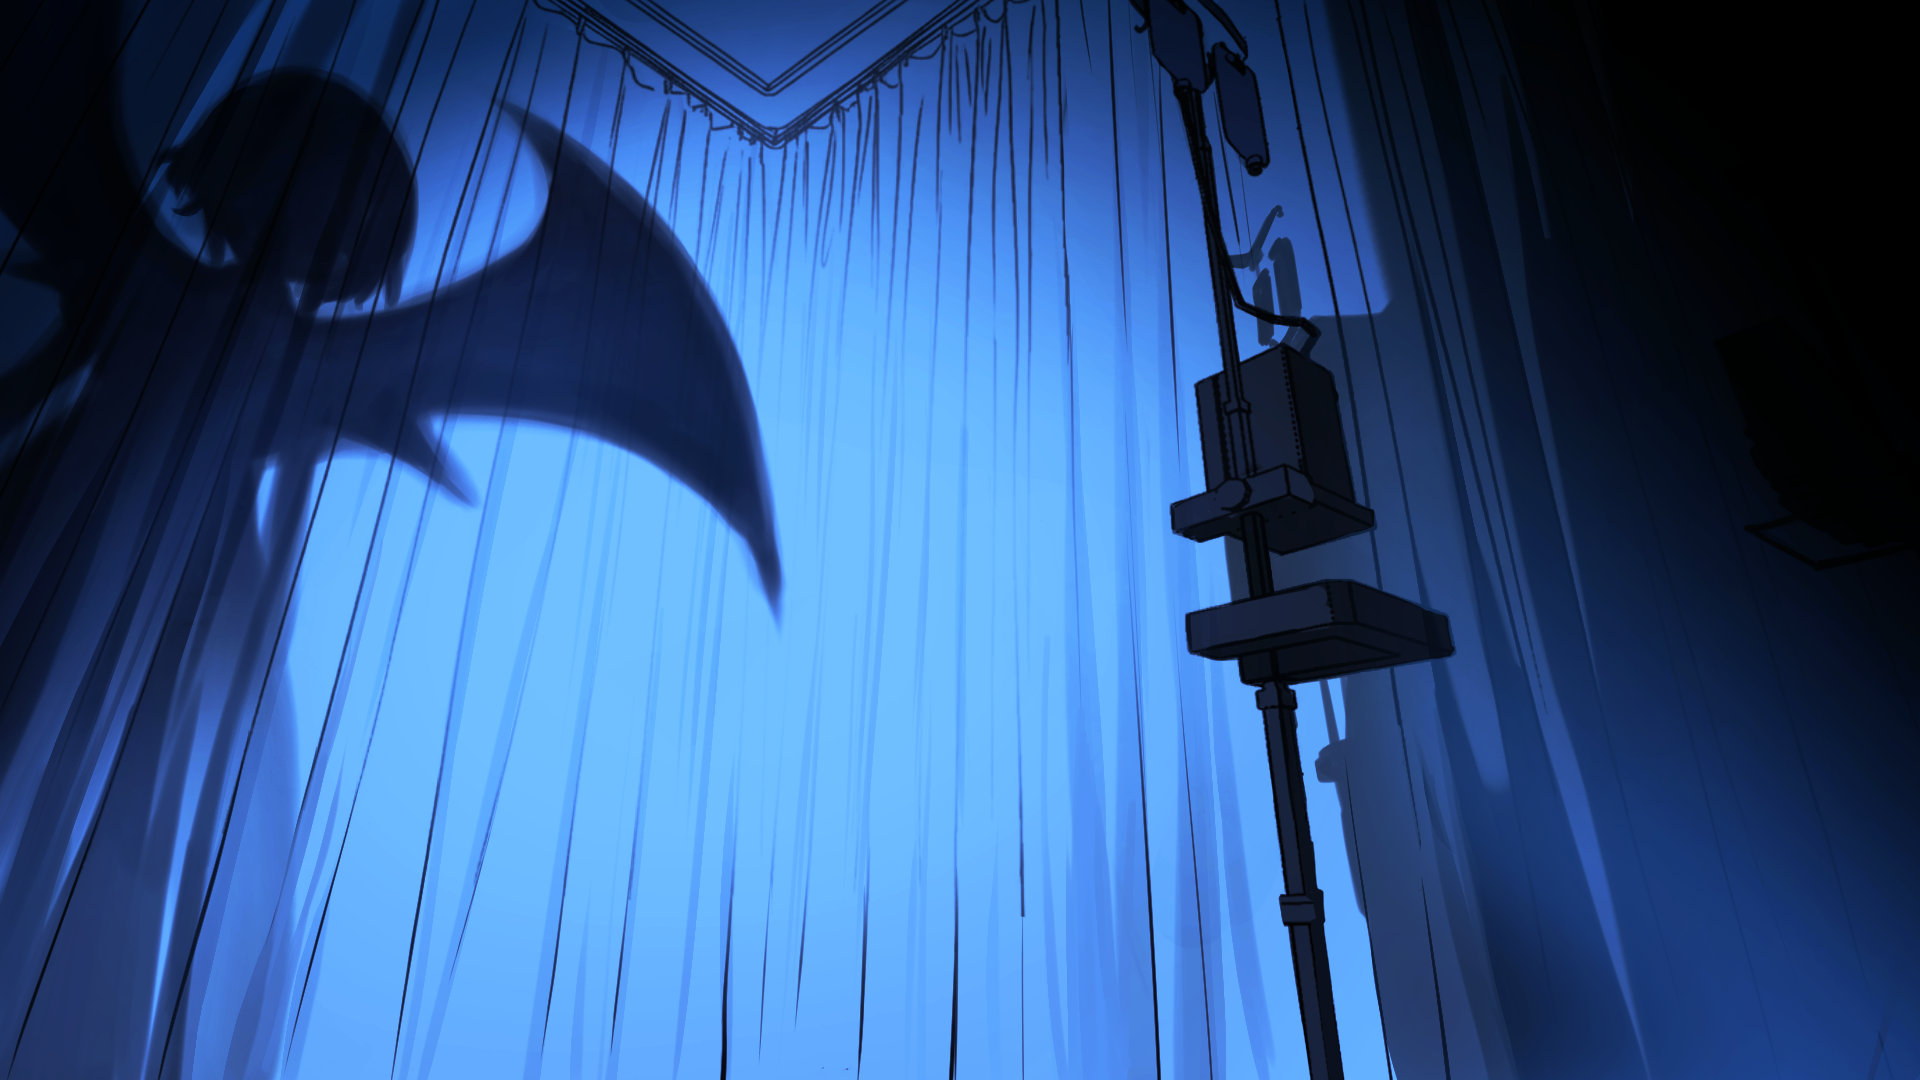
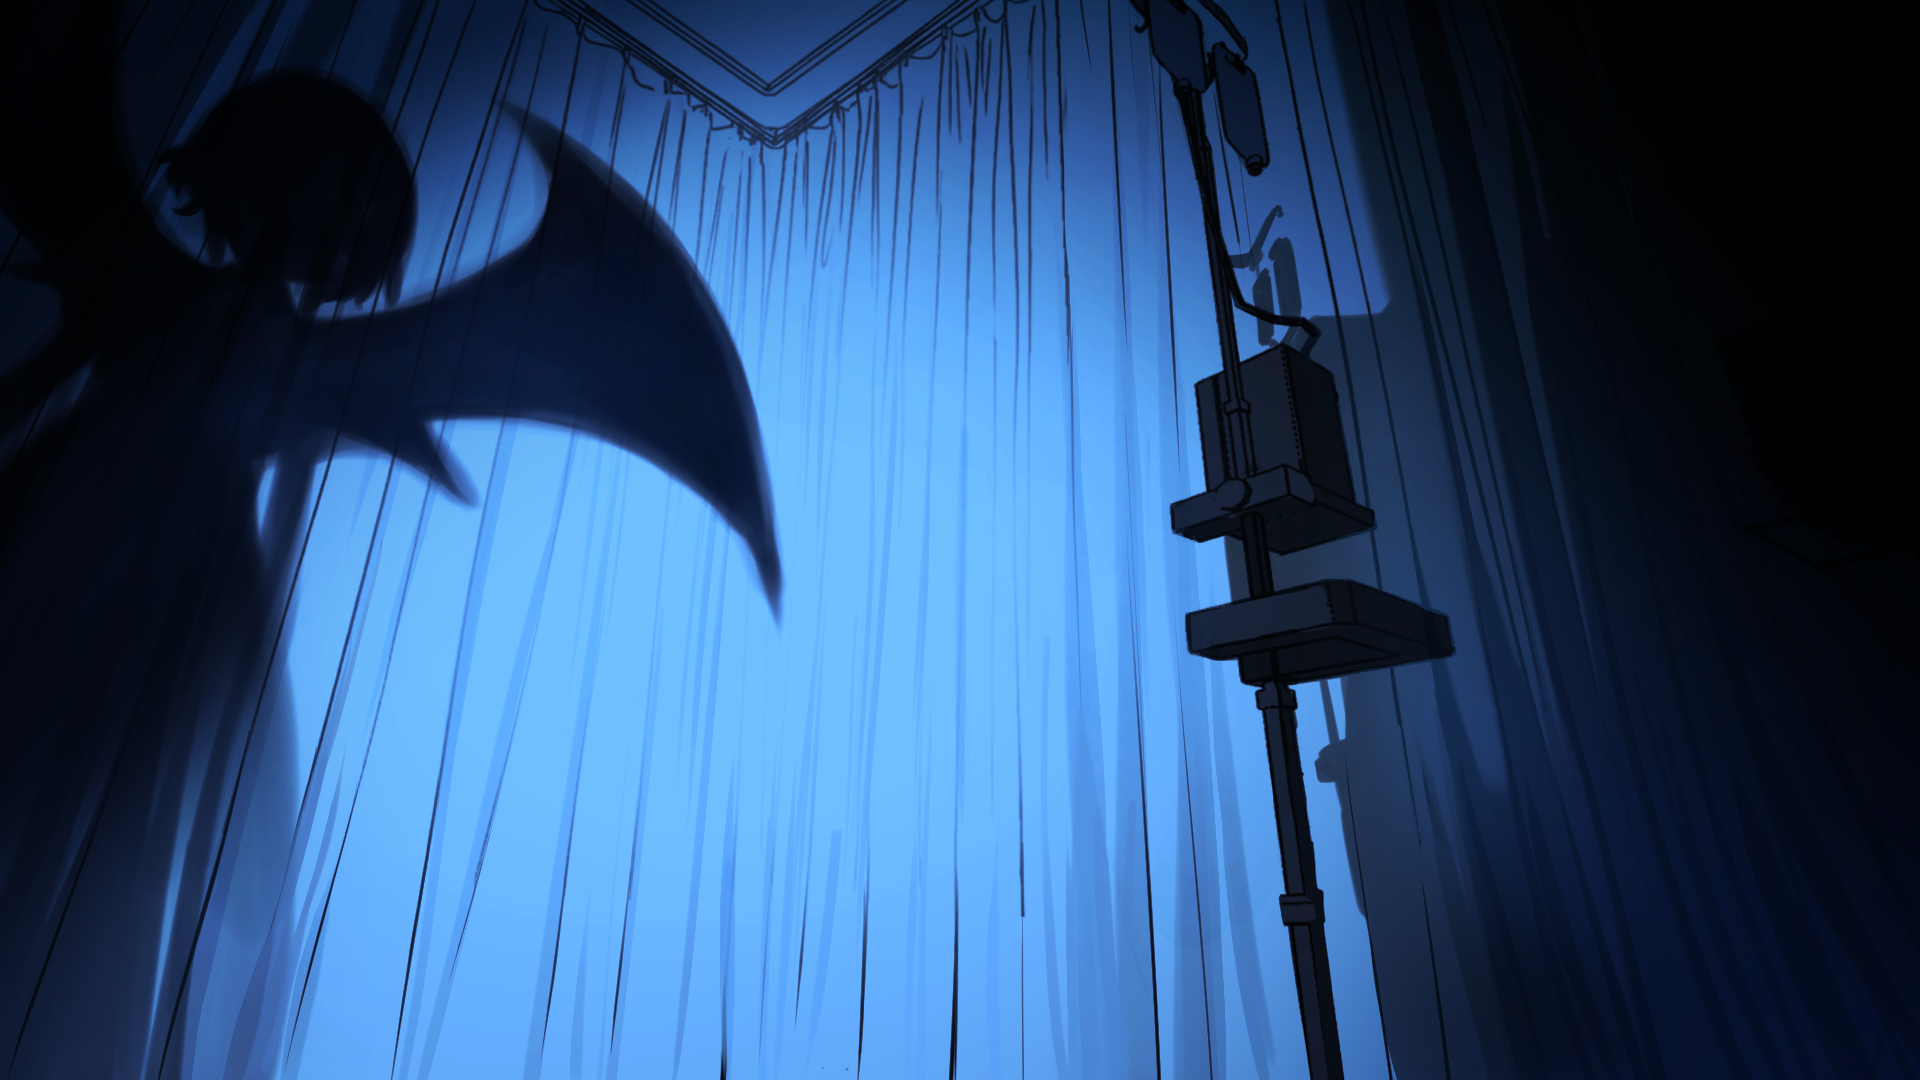
channel-main: 背景の白オーバーレイ除去／死神少女: 背景画像更新

diff --git a/channel-main.html b/channel-main.html
@@ -13,7 +13,7 @@
 @font-face{font-family:'AkazukinPOP';src:url('fonts/AkazukiPOP.woff2') format('woff2');font-display:swap;}
 @font-face{font-family:'KeiFont';src:url('fonts/keifont-title.woff2') format('woff2');font-display:swap;}
 .ch-detail{position:relative;min-height:calc(100vh - 110px);padding:60px 32px 60px;background-size:cover;background-position:center;background-repeat:no-repeat;display:flex;flex-direction:column;width:100%!important;box-sizing:border-box;}
-.ch-detail::before{content:'';position:absolute;inset:0;background:rgba(255,255,255,0.28);pointer-events:none;}
+.ch-detail::before{content:'';position:absolute;inset:0;background:transparent;pointer-events:none;}
 .ch-detail > *{position:relative;z-index:1;}
 .ch-detail-inner{max-width:1200px;margin:0 auto;width:100%;flex:1;display:flex;flex-direction:column;}
 .ch-detail-header{display:grid;grid-template-columns:1fr max-content;gap:40px;margin-bottom:40px;align-items:end;}
